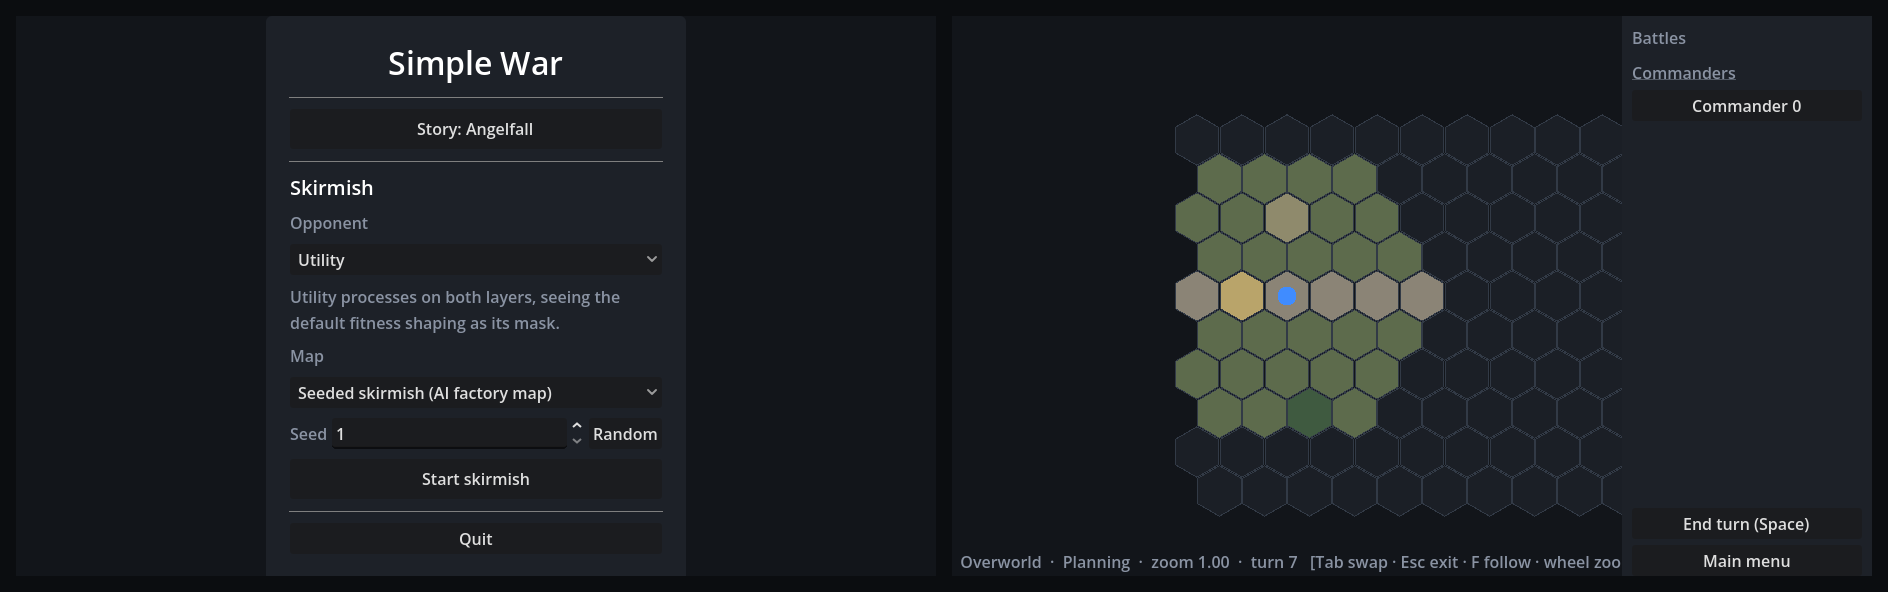
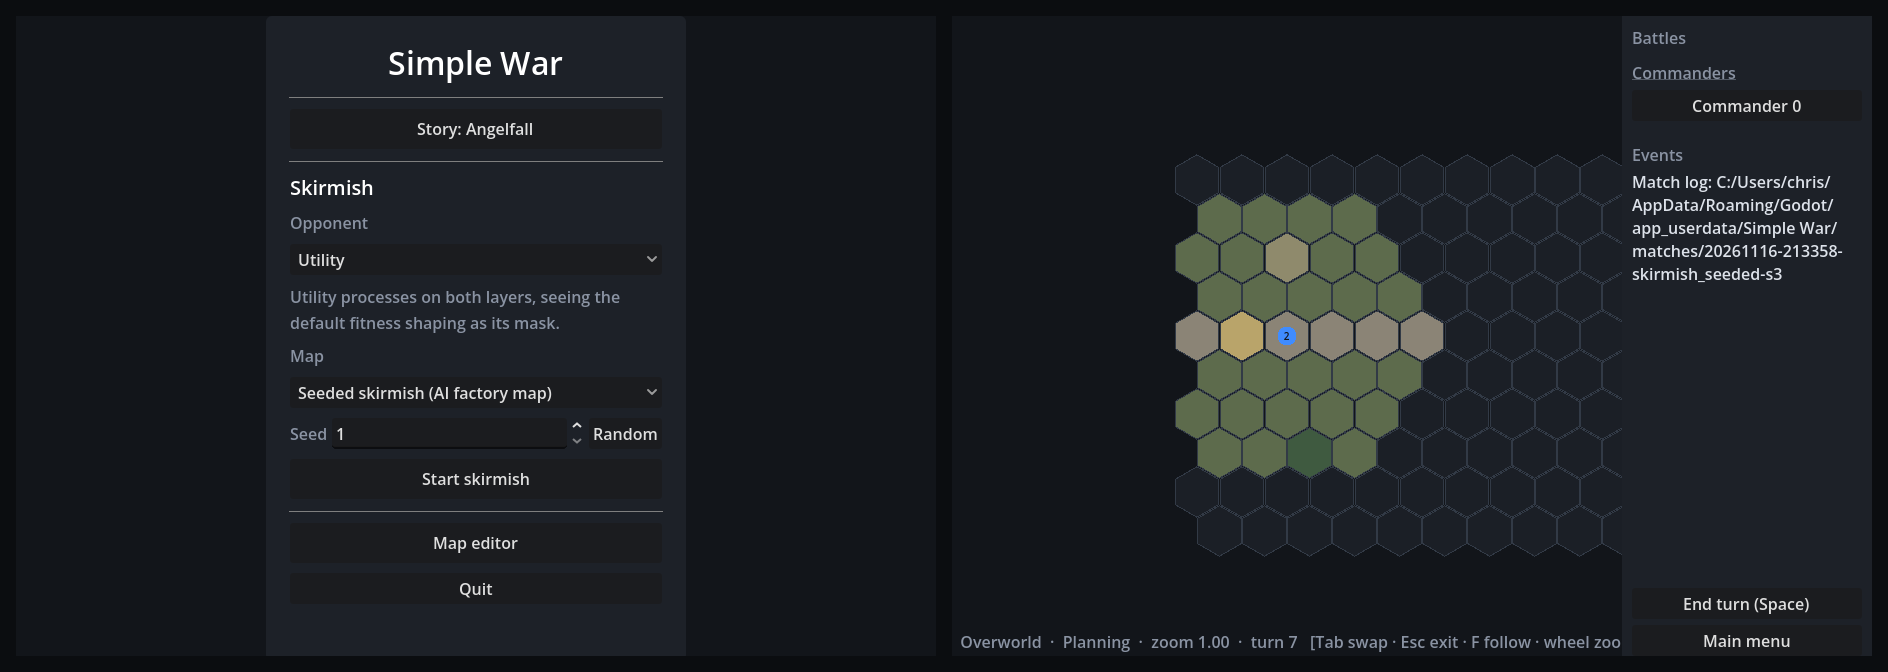
Join a running battle as a new side; Map editor on the main menu
A player who walked onto a battle tile was held in the engagement with no
side in the battle, unable to move or give orders. It now joins before the
next battle turn, arriving at the area farthest from the fighting. The main
menu opens the War Data screen on its Maps tab.

diff --git a/Game Design Document/02 Rules Spec.md b/Game Design Document/02 Rules Spec.md
@@ -91,6 +91,10 @@ Cross-context changes (reinforcements, transfers, battle results) apply at fixed
     - **Winners** left on the hex then take its features and caches.
     - **Draws** end the engagement with nothing cleared.
   - **Reinforcements:** a commander staying in its battle (its own squad deployed) can send squads from the rest of its army. They join at its side's deployment area before the next battle turn, while its squads still fighting are under the battleforce squad cap.
+  - **Joining late:** a player who enters a battle tile after the battle began becomes a new side before the next battle turn.
+    - **Where:** it arrives at whichever of these is farthest from every squad already fighting, the first on a tie: the scenario's deployment areas, then a strip of the same size along the middle of the top edge, then the bottom edge. Its squads spread along the area and face the middle of the field.
+    - **The clock doesn't restart:** the battle's turn limit and scores carry on, so a side that joins late has fewer turns.
+    - **Everyone is hostile:** a battle has no teams yet, so allies who join the same battle would fight each other.
   - **Leaving:** a commander whose own squad isn't deployed may leave during planning and move that turn. Its battleforce fights on, and survivors return to its army when the battle ends. If its commander left, they form a convoy rallied to it instead (R8Q3, sw-o1m.2.5).
 - A typical battle is about 8 turns:
   - T1: scouting and positioning.

diff --git a/AGENTS.md b/AGENTS.md
@@ -6,7 +6,7 @@ Canonical instructions for every agent client (Claude Code reads this via `CLAUD
 - **OS:** Windows 11. **Repo root:** `C:/Users/chris/Documents/simple-war`.
 - **Shell:** use **Git Bash** (the Bash tool) by default; output compression and command metrics only apply there. Use PowerShell only for Windows-only operations.
 - **Godot 4.7.2:** `Godot_v4.7.2-stable_win64.exe` (editor) and `Godot_v4.7.2-stable_win64_console.exe` (headless) at the repo root.
-- **Main scene:** `res://src/presentation/main_menu/main_menu.tscn`: Story (the Angelfall slice, `src/presentation/angelfall/angelfall.tscn`, M4) or Skirmish against an AI controller profile on a skirmish map. The replay viewer and the war room demo run standalone (F6).
+- **Main scene:** `res://src/presentation/main_menu/main_menu.tscn`: Story (the Angelfall slice, `src/presentation/angelfall/angelfall.tscn`, M4) Skirmish against an AI controller profile on a skirmish map, or the Map editor (the War Data screen on its Maps tab). The replay viewer and the war room demo run standalone (F6).
 
 ## 2. Start of every session
 1. `harness/bin/hx status`: branch, dirty files, Godot version, autoloads, in-progress and ready tasks.
